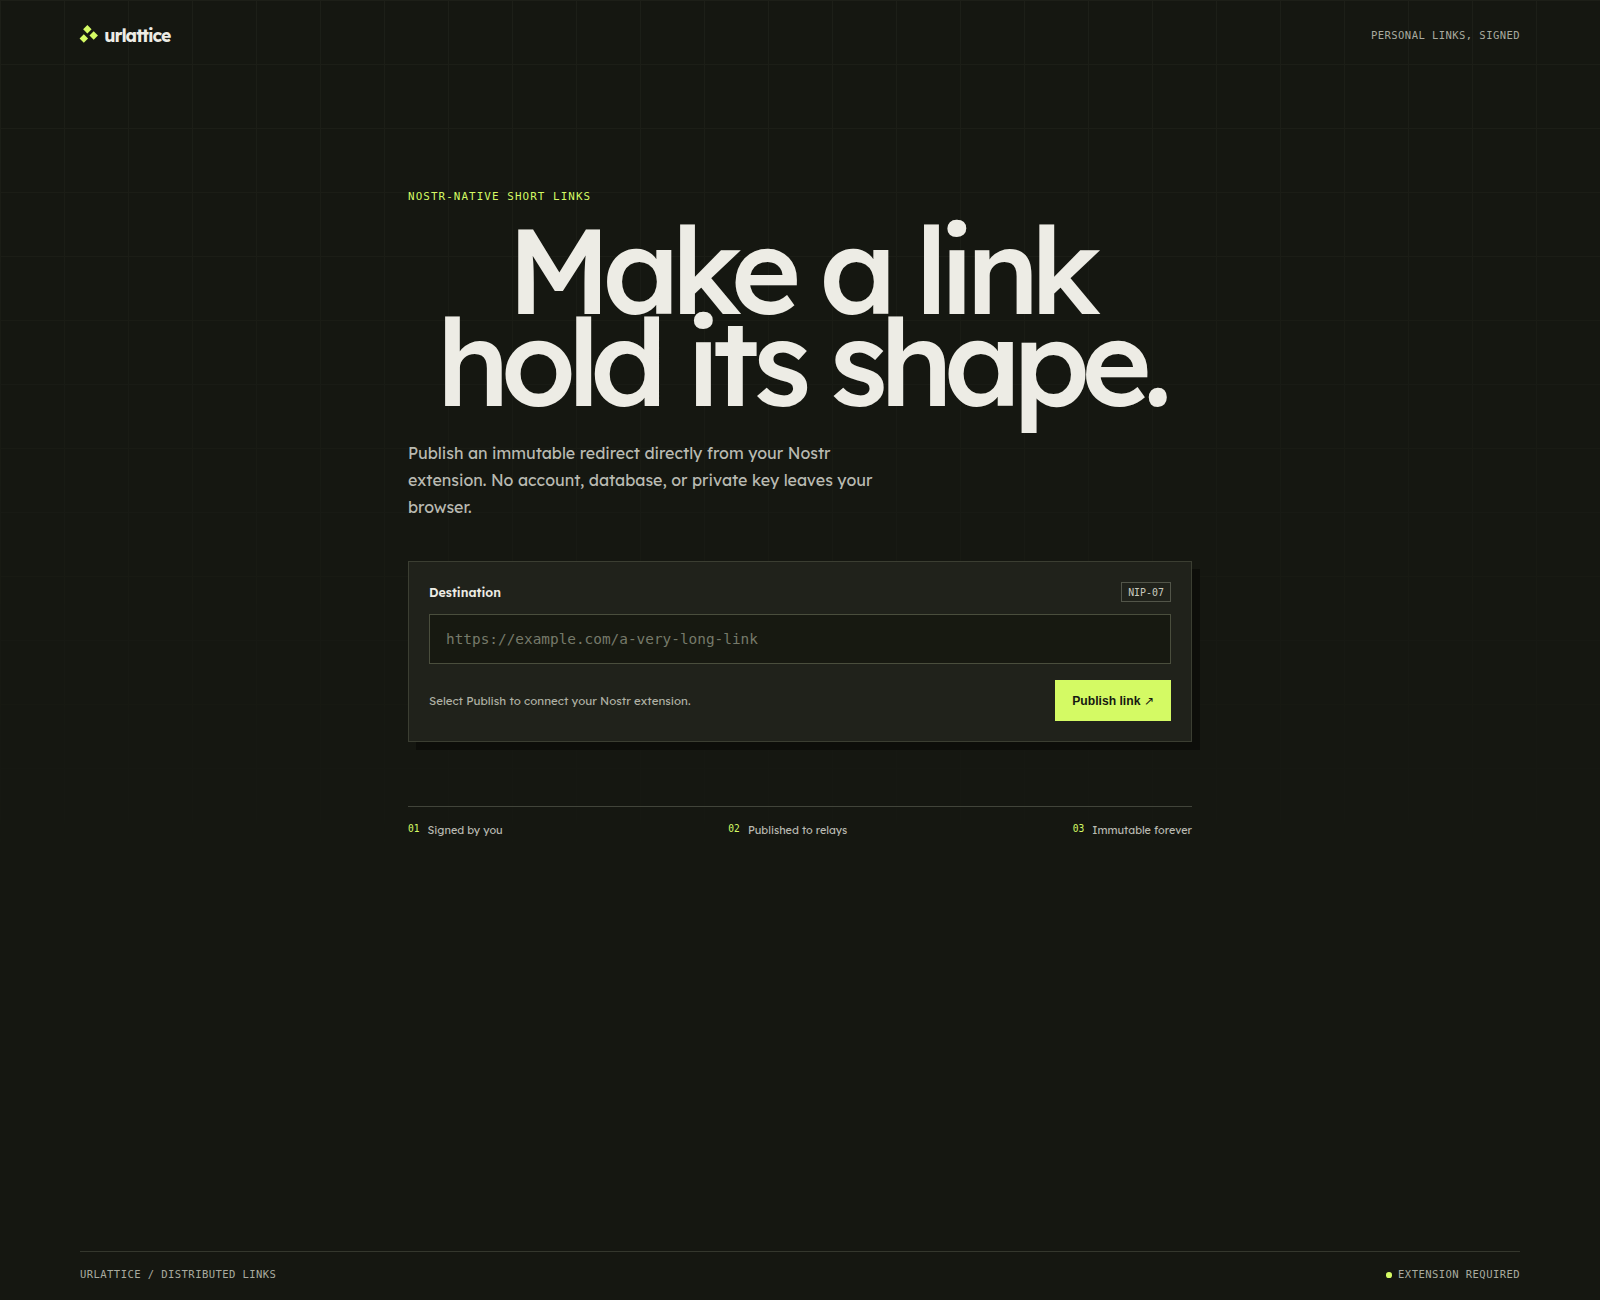
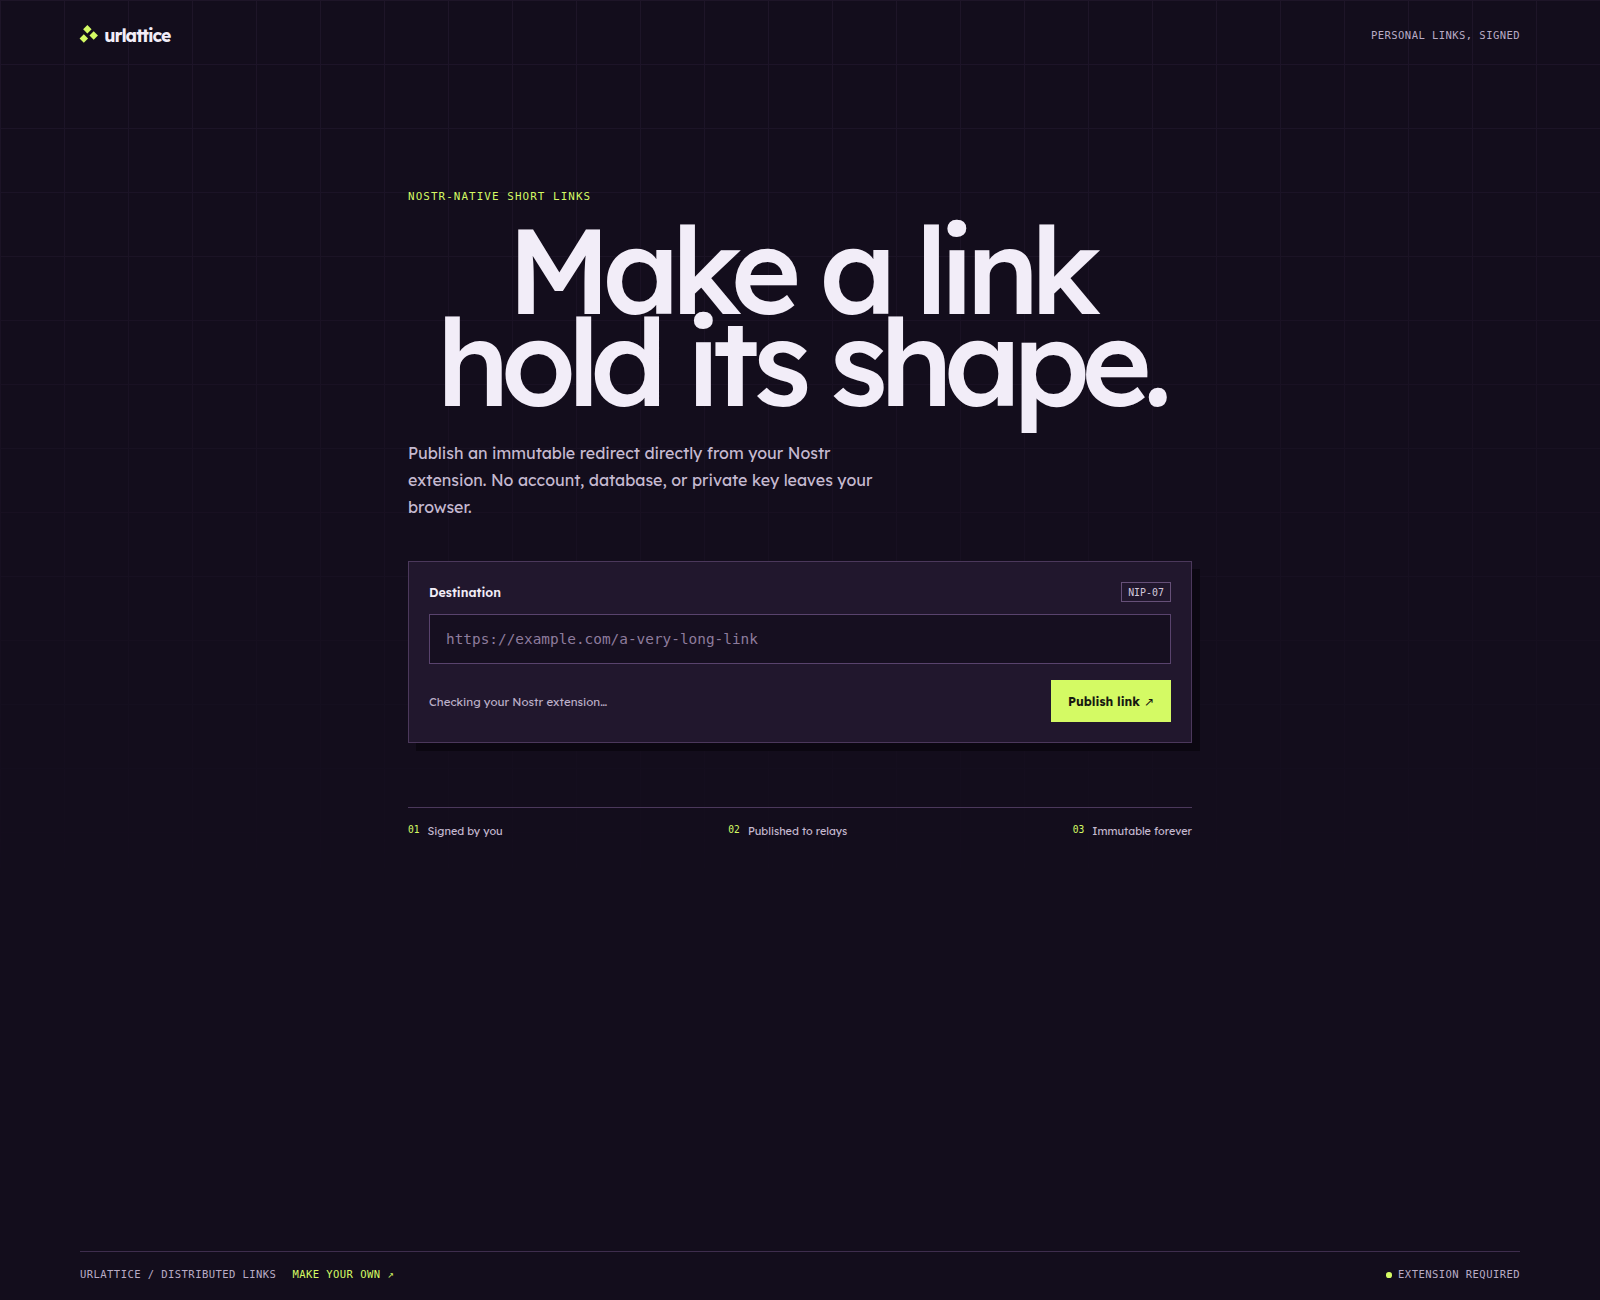
feat: add purple creator theme and source link

diff --git a/apps/creator-web/src/style.css b/apps/creator-web/src/style.css
@@ -1,6 +1,6 @@
 :root {
-  color: #edece5;
-  background: #151711;
+  color: #f2edf8;
+  background: #130d1c;
   font-family: "Lexend", ui-sans-serif, system-ui, sans-serif;
   font-synthesis: none;
 }
@@ -24,8 +24,8 @@ body {
 
 .shell::before {
   background-image:
-    linear-gradient(#34372d 1px, transparent 1px),
-    linear-gradient(90deg, #34372d 1px, transparent 1px);
+    linear-gradient(#3e2d4d 1px, transparent 1px),
+    linear-gradient(90deg, #3e2d4d 1px, transparent 1px);
   background-size: 4rem 4rem;
   content: "";
   inset: 0;
@@ -77,7 +77,7 @@ footer {
 }
 .edition,
 footer {
-  color: #a8aa9f;
+  color: #b8abc5;
   font-family: ui-monospace, monospace;
   font-size: 0.66rem;
   letter-spacing: 0.04em;
@@ -106,7 +106,7 @@ h1 {
   text-align: center;
 }
 .lede {
-  color: #b9bab1;
+  color: #c5b9d0;
   font-size: 1rem;
   line-height: 1.7;
   margin: 2rem 0 2.5rem;
@@ -114,9 +114,9 @@ h1 {
 }
 
 .console {
-  background: #20221b;
-  border: 1px solid #3b3e32;
-  box-shadow: 8px 8px 0 #0d0e0a;
+  background: #21172d;
+  border: 1px solid #4b385b;
+  box-shadow: 8px 8px 0 #0b0711;
   padding: 1.25rem;
 }
 .console-heading {
@@ -128,15 +128,15 @@ label {
   font-weight: 600;
 }
 .protocol {
-  border: 1px solid #525549;
-  color: #c8c9be;
+  border: 1px solid #665078;
+  color: #d2c7db;
   font-family: ui-monospace, monospace;
   font-size: 0.62rem;
   padding: 0.22rem 0.38rem;
 }
 input {
-  background: #171911;
-  border: 1px solid #4a4e3d;
+  background: #160f20;
+  border: 1px solid #59436d;
   border-radius: 0;
   color: #f5f4ed;
   font:
@@ -147,7 +147,7 @@ input {
   width: 100%;
 }
 input::placeholder {
-  color: #767a6a;
+  color: #8e7c9d;
 }
 input:focus {
   border-color: #d4fa64;
@@ -159,7 +159,7 @@ input:focus {
   margin-top: 1rem;
 }
 #status {
-  color: #afb1a4;
+  color: #bcafc8;
   font-size: 0.72rem;
   line-height: 1.5;
   margin: 0;
@@ -172,8 +172,8 @@ button {
   cursor: pointer;
   flex: none;
   font:
-    700 0.76rem Manrope,
-    sans-serif;
+    700 0.76rem "Lexend",
+    ui-sans-serif;
   padding: 0.78rem 1rem;
   transition:
     background 0.15s ease,
@@ -188,14 +188,14 @@ button:focus-visible {
   outline-offset: 3px;
 }
 button:disabled {
-  background: #4c5043;
-  border-color: #4c5043;
-  color: #9a9d91;
+  background: #554361;
+  border-color: #554361;
+  color: #b3a6bd;
   cursor: not-allowed;
 }
 
 .guarantees {
-  border-top: 1px solid #41443a;
+  border-top: 1px solid #4b385b;
   gap: 1rem;
   justify-content: space-between;
   margin-top: 4rem;
@@ -212,17 +212,34 @@ dt {
     monospace;
 }
 dd {
-  color: #b9bab1;
+  color: #c5b9d0;
   font-size: 0.68rem;
   margin: 0;
 }
 footer {
-  border-top: 1px solid #34372d;
+  border-top: 1px solid #3e2d4d;
   bottom: 1.25rem;
   left: clamp(1.5rem, 5vw, 5rem);
   padding-top: 1rem;
   position: absolute;
   right: clamp(1.5rem, 5vw, 5rem);
+}
+.footer-links {
+  align-items: center;
+  display: flex;
+  gap: 1rem;
+}
+.footer-links a {
+  color: #d4fa64;
+  text-decoration: none;
+}
+.footer-links a:hover {
+  text-decoration: underline;
+  text-underline-offset: 0.2rem;
+}
+.footer-links a:focus-visible {
+  outline: 2px solid #d4fa64;
+  outline-offset: 0.25rem;
 }
 .status-dot::before {
   background: #d4fa64;
@@ -264,7 +281,7 @@ footer {
     flex-direction: column;
     gap: 0.75rem;
   }
-  footer span:first-child {
+  .footer-label {
     display: none;
   }
   footer {

diff --git a/apps/creator-web/index.html b/apps/creator-web/index.html
@@ -3,7 +3,7 @@
   <head>
     <meta charset="utf-8" />
     <meta name="viewport" content="width=device-width,initial-scale=1" />
-    <meta name="theme-color" content="#151711" />
+    <meta name="theme-color" content="#130d1c" />
     <meta name="referrer" content="no-referrer" />
     <meta
       http-equiv="Content-Security-Policy"
@@ -69,7 +69,15 @@
       </section>
 
       <footer>
-        <span>Urlattice / distributed links</span>
+        <span class="footer-links">
+          <span class="footer-label">Urlattice / distributed links</span>
+          <a
+            href="https://github.com/argakiig/urlattice"
+            target="_blank"
+            rel="noreferrer"
+            >Make your own <span aria-hidden="true">↗</span></a
+          >
+        </span>
         <span class="status-dot">Extension required</span>
       </footer>
     </main>
